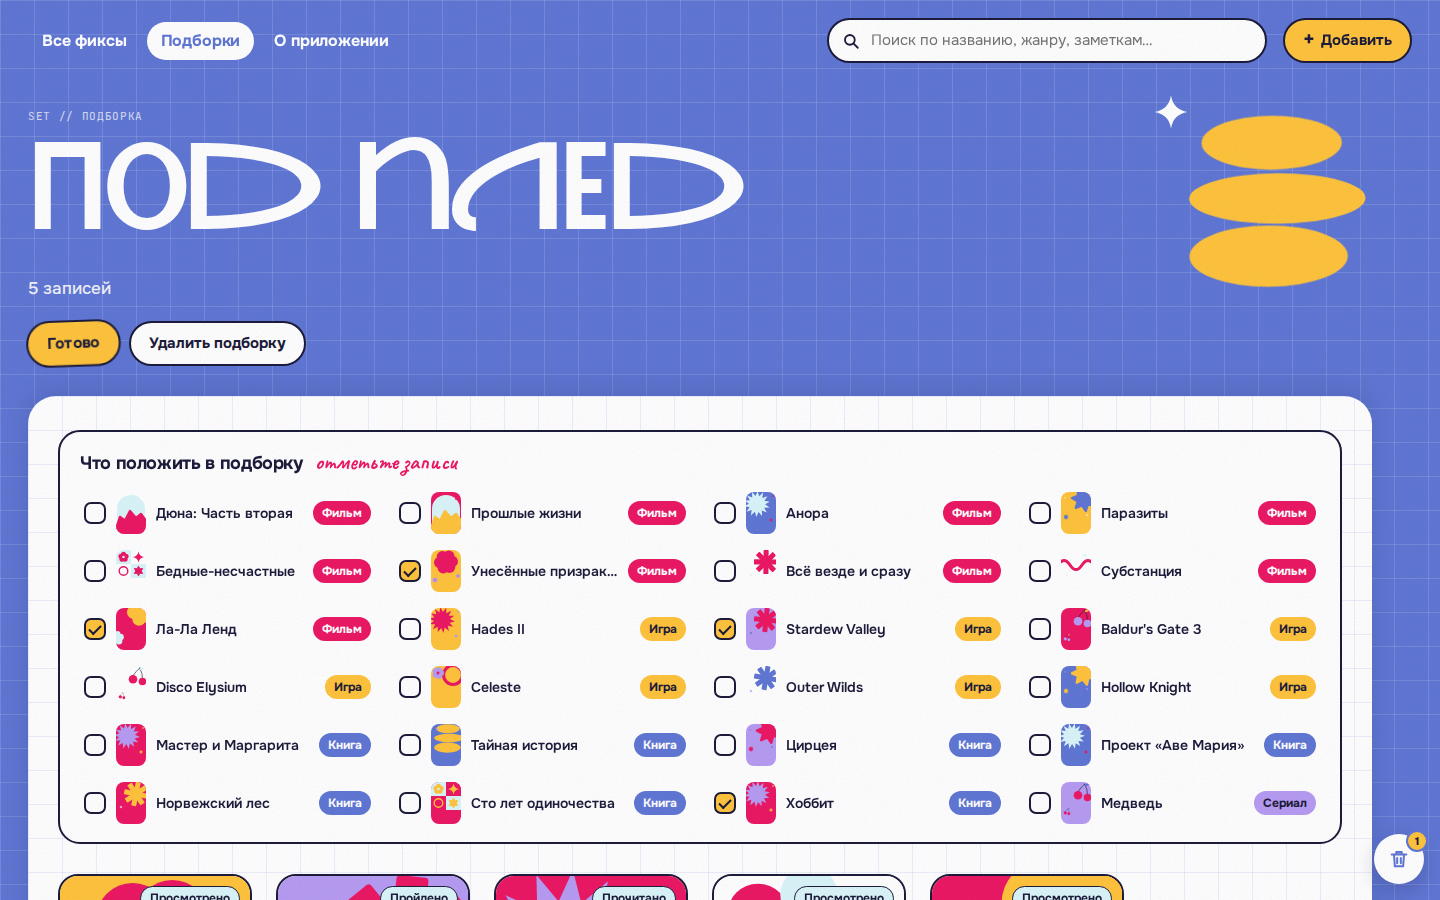
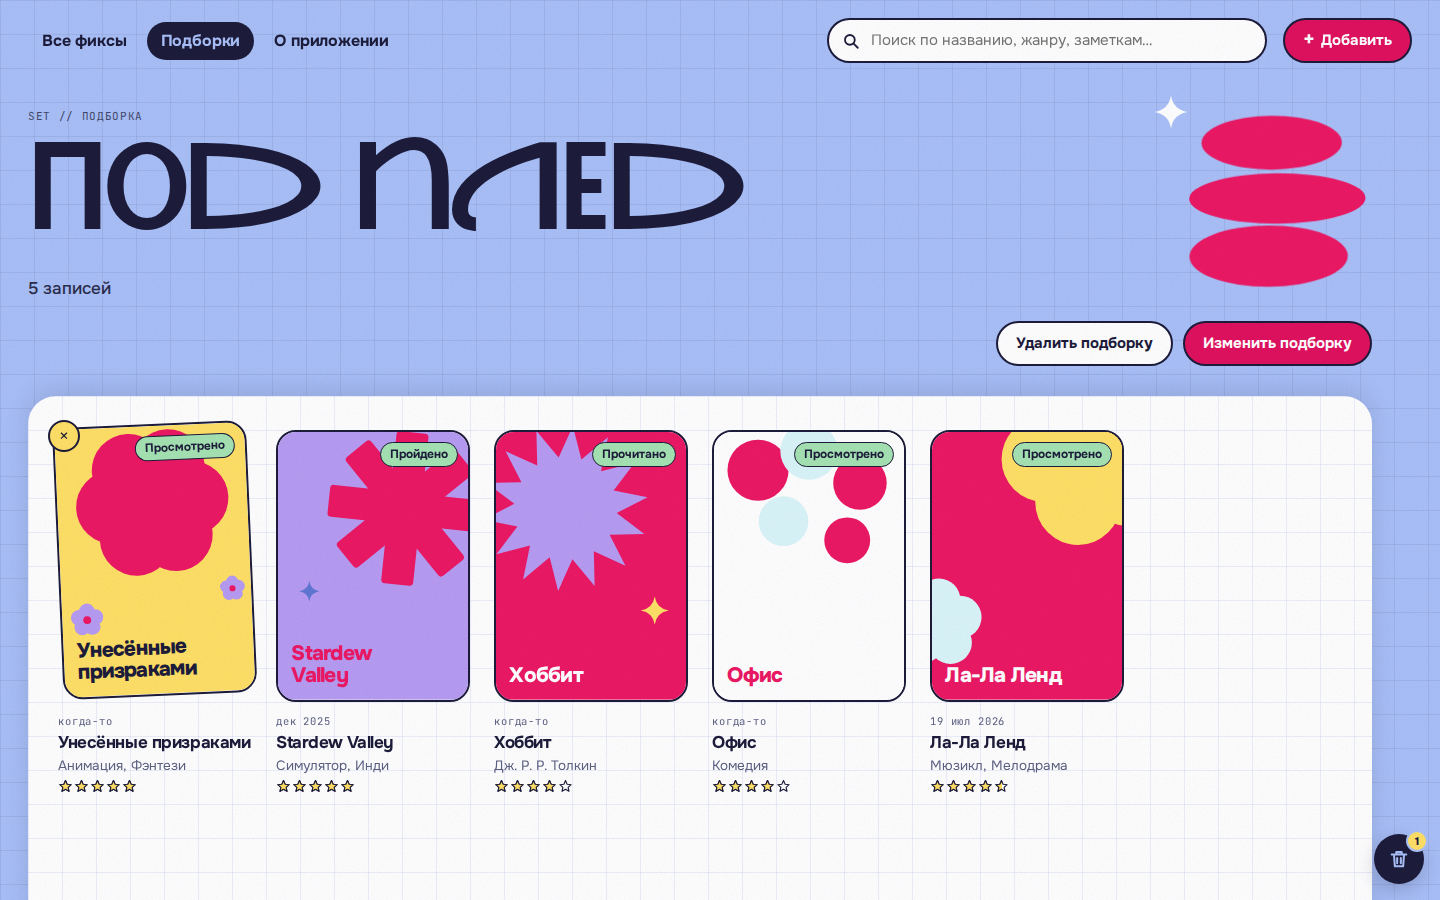
Чистка кода, свежие скриншоты, контекст: дизайны, последние изменения, план деплоя на сервер
Claude-Session: https://claude.ai/code/session_01PDBpM1BjsubR5k6YmRK1Ea

diff --git a/css/standard.css b/css/standard.css
@@ -5,17 +5,19 @@
    Скругления те же, что в дофаминовом. Цветного акцента нет: выбранное инвертируется — тёмная плашка,
    светлый текст, без обводки. Активная вкладка статуса — крупнее и светлее
    остальных. Цветовые переменные дофаминовой палитры переопределены
-   нейтральными, чтобы цвет не просачивался в мелочи. */
+   нейтральными, чтобы цвет не просачивался в мелочи. Заголовки — Lora
+   (там же, где в дофаминовом Nauryz), фигуры — тонкие контуры из covers.js. */
 html[data-design="standard"] { --ink: #23201C; --ink-2: #8A8178; --line: rgba(35, 32, 28, .22); --line-strong: rgba(35, 32, 28, .55);
   --bg: #F3EFE9; --paper: #FBF8F4; --tomato: #23201C; --display: 'Onest', system-ui, sans-serif; --shadow: transparent; }
 html[data-design="standard"], html[data-design="standard"] body { background: var(--bg) !important; }
 html[data-design="standard"] body { background-image: none !important; color: var(--ink); }
 html[data-design="standard"] body::after { display: none !important; }
-html[data-design="standard"] .folder-figure, html[data-design="standard"] .title-deco, html[data-design="standard"] .stat-fig, html[data-design="standard"] .coll-figure, html[data-design="standard"] .empty > svg, html[data-design="standard"] .hand-note, html[data-design="standard"] .doodle { display: none !important; }
+html[data-design="standard"] .doodle { display: none !important; }
 html[data-design="standard"] .sticker, html[data-design="standard"] .decode span, html[data-design="standard"] .tag, html[data-design="standard"] .pack, html[data-design="standard"] .mini-cover, html[data-design="standard"] .detail-cover, html[data-design="standard"] .stat-tile, html[data-design="standard"] .btn, html[data-design="standard"] .chip, html[data-design="standard"] .card .cover { transform: none !important; }
 html[data-design="standard"] .card:hover .cover, html[data-design="standard"] .grid > :nth-child(even) .card:hover .cover, html[data-design="standard"] .card:nth-child(even):hover .cover, html[data-design="standard"] .pack:hover, html[data-design="standard"] .stat-tile:hover, html[data-design="standard"] .btn:hover, html[data-design="standard"] .chip:hover, html[data-design="standard"] .folder:hover .mini-cover { transform: none !important; }
 html[data-design="standard"] .folder, html[data-design="standard"] .pack, html[data-design="standard"] .side-tab, html[data-design="standard"] .sheet, html[data-design="standard"] .sheet-card, html[data-design="standard"] .cover, html[data-design="standard"] .mini-cover { filter: none !important; box-shadow: none !important; }
-html[data-design="standard"] .footer-word, html[data-design="standard"] .folder-vtitle, html[data-design="standard"] .title-sheet h1, html[data-design="standard"] .coll-hero h1, html[data-design="standard"] .pack-name, html[data-design="standard"] .home-collections h2, html[data-design="standard"] .about-block h2, html[data-design="standard"] .detail-info h2, html[data-design="standard"] .add-head h2 { font-family: var(--font) !important; font-weight: 300 !important; letter-spacing: -.02em !important; text-transform: uppercase; color: var(--ink) !important; }
+html[data-design="standard"] .footer-word, html[data-design="standard"] .folder-vtitle, html[data-design="standard"] .title-sheet h1, html[data-design="standard"] .coll-hero h1, html[data-design="standard"] .pack-name, html[data-design="standard"] .home-collections h2, html[data-design="standard"] .about-block h2, html[data-design="standard"] .detail-info h2, html[data-design="standard"] .add-head h2 { text-transform: uppercase; color: var(--ink) !important; }
+html[data-design="standard"] .detail-info h2, html[data-design="standard"] .add-head h2 { font-family: var(--font) !important; font-weight: 300 !important; letter-spacing: -.02em !important; }
 html[data-design="standard"] .title-sheet h1 { font-size: clamp(56px, 5.4vw, 88px) !important; line-height: .95 !important; }
 html[data-design="standard"] .coll-hero h1 { font-size: clamp(56px, 8vw, 128px) !important; line-height: .95 !important; }
 html[data-design="standard"] .folder-vtitle { font-size: clamp(40px, 6.4vh, 76px) !important; }
@@ -30,7 +32,7 @@ html[data-design="standard"] .mainnav a.is-active, html[data-design="standard"] 
 html[data-design="standard"] .btn, html[data-design="standard"] .btn--ghost, html[data-design="standard"] .btn--danger { background: transparent !important; color: var(--ink) !important; border: 1px solid var(--ink) !important; font-weight: 500; }
 html[data-design="standard"] .btn:hover { background: var(--paper) !important; }
 html[data-design="standard"] .btn--ghost { border-color: var(--line-strong) !important; }
-html[data-design="standard"] .search input, html[data-design="standard"] .field-inline input, html[data-design="standard"] .select select, html[data-design="standard"] .field input:not([type=radio]), html[data-design="standard"] .field textarea, html[data-design="standard"] .note-compose textarea, html[data-design="standard"] .inline-form input { background: transparent !important; border: 1px solid var(--line-strong) !important; color: var(--ink); }
+html[data-design="standard"] .search input, html[data-design="standard"] .field-inline input, html[data-design="standard"] .select select, html[data-design="standard"] .field input:not([type=radio]), html[data-design="standard"] .field textarea, html[data-design="standard"] .note-compose textarea { background: transparent !important; border: 1px solid var(--line-strong) !important; color: var(--ink); }
 html[data-design="standard"] .search-results { background: var(--paper); border-width: 1px; box-shadow: none; }
 html[data-design="standard"] .folder-body, html[data-design="standard"] .stat-tile, html[data-design="standard"] .sheet, html[data-design="standard"] .pack-body, html[data-design="standard"] .sheet-card, html[data-design="standard"] .footer-sheet, html[data-design="standard"] .confirm-card, html[data-design="standard"] .picker, html[data-design="standard"] .sheet-inner { background: var(--paper) !important; color: var(--ink) !important; box-shadow: inset 0 0 0 1px var(--line) !important; border: 0 !important; }
 html[data-design="standard"] .folder--title .folder-body { box-shadow: inset 0 0 0 1px var(--line-strong) !important; }
@@ -91,7 +93,6 @@ html[data-design="standard"] .field input:focus, html[data-design="standard"] .f
 html[data-design="standard"] .detail-cover, html[data-design="standard"] .edit-side .detail-cover { border: 1px solid var(--line) !important; box-shadow: none !important; }
 html[data-design="standard"] .sheet-inner { background: transparent !important; }
 html[data-design="standard"] .sheet-card { box-shadow: inset 0 0 0 1px var(--line-strong) !important; }
-html[data-design="standard"] [class*="picker"] button, html[data-design="standard"] .pick-trigger, html[data-design="standard"] .dd-trigger, html[data-design="standard"] .cal-trigger { border-width: 1px !important; }
 
 /* ---- подборки: язычок стоит на крае папки, с вогнутыми «плечиками» ---- */
 /* Язычок заходит на 1px в папку и закрывает её верхнюю линию; плечико — уголок
@@ -172,14 +173,12 @@ html[data-design="standard"] .footer-word, html[data-design="standard"] .folder-
   font-family: 'Lora', Georgia, serif !important; font-weight: 400 !important; letter-spacing: -.01em !important; }
 
 /* рукописные подписи в окнах записи и подборки — как «выбрано N» */
-html[data-design="standard"] .hand-note { display: inline !important; color: var(--ink-2) !important; }
+html[data-design="standard"] .hand-note { color: var(--ink-2) !important; }
 
 /* контурные фигуры: тонко и светло */
-html[data-design="standard"] .folder-figure, html[data-design="standard"] .title-deco, html[data-design="standard"] .stat-fig, html[data-design="standard"] .coll-figure, html[data-design="standard"] .empty > svg { display: block !important; }
 html[data-design="standard"] .fig-outline { opacity: .38; }
 html[data-design="standard"] .stat-fig { width: 92px; right: -14px; bottom: -16px; }
 html[data-design="standard"] .coll-figure .fig-outline { opacity: .3; }
-html[data-design="standard"] .doodle { display: none !important; }
 html[data-design="standard"] .empty > svg { margin: 0 auto; }
 
 /* наведение на плитки статистики и стикер подборок */

diff --git a/css/styles.css b/css/styles.css
@@ -790,7 +790,6 @@ body[data-view="collection"] .mainnav a.is-active { background: var(--page-fi, v
 .edit-notes .note-card, .edit-notes .quote-card { display: flex; align-items: flex-start; gap: 8px; }
 .edit-notes .note-card span, .edit-notes .quote-card span { flex: 1; white-space: pre-wrap; }
 .note-delete { flex: none; margin-top: 6px; border: 0; background: rgba(28, 27, 58, .12); width: 22px; height: 22px; border-radius: 50%; cursor: pointer; line-height: 1; font: 600 15px var(--font); font-style: normal; }
-.notes-empty { margin: 0; color: var(--ink-2); font-size: 14px; }
 .note-compose { display: flex; flex-direction: column; gap: 8px; align-items: stretch; }
 .note-compose textarea { width: 100%; min-height: 96px; resize: vertical; font-family: inherit; }
 .note-compose .btn { align-self: flex-end; }
@@ -798,7 +797,6 @@ body[data-view="collection"] .mainnav a.is-active { background: var(--page-fi, v
 .edit-actions { grid-column: 1 / -1; display: flex; justify-content: space-between; align-items: center; gap: 16px; }
 .edit-actions .btn { margin-left: auto; }
 /* окно подборки */
-.sheet-card--narrow { width: min(720px, 100%); }
 .col-form { display: grid; gap: 22px; }
 /* Поле поиска лежит внутри .field, а её правило для input перебивает отступ
    под иконку — поэтому возвращаем его здесь, иначе лупа ложится на текст. */

diff --git a/js/collections-repository.js b/js/collections-repository.js
@@ -90,15 +90,6 @@ window.Diary = window.Diary || {};
     notify();
   }
 
-  function addEntry(collectionId, entryId) {
-    var c = getById(collectionId);
-    if (!c || c.entryIds.indexOf(entryId) !== -1) return;
-    c.entryIds.push(entryId);
-    c.updatedAt = Date.now();
-    persist();
-    notify();
-  }
-
   function removeEntry(collectionId, entryId) {
     var c = getById(collectionId);
     if (!c) return;
@@ -140,7 +131,6 @@ window.Diary = window.Diary || {};
     rename: rename,
     setEntries: setEntries,
     remove: remove,
-    addEntry: addEntry,
     removeEntry: removeEntry,
     importItems: importItems
   };

diff --git a/js/render.js b/js/render.js
@@ -125,7 +125,6 @@ window.Diary = window.Diary || {};
   }
 
   Diary.render = {
-    matchesStatusFilter: matchesStatusFilter,
     matchesQuery: matchesQuery,
     filterAndSort: filterAndSort,
     dateBadge: dateBadge,
@@ -135,7 +134,6 @@ window.Diary = window.Diary || {};
     coverInner: coverInner,
     thumbHtml: thumbHtml,
     tinyThumbHtml: tinyThumbHtml,
-    emptyStateHtml: emptyStateHtml,
     renderGrid: renderGrid
   };
 })(window.Diary);

diff --git a/js/pickers.js b/js/pickers.js
@@ -54,7 +54,6 @@ window.Diary = window.Diary || {};
     trigger.querySelector('.pick-caret').style.backgroundImage = CARET;
 
     var shell = {
-      trigger: trigger,
       panel: panel,
       isOpen: function () { return !panel.hidden; },
       open: function () {

diff --git a/README.md b/README.md
@@ -9,7 +9,9 @@
 - **Обычный режим** — ваши записи из `localStorage` (ключи `mediaDiary.entries.v1` и `mediaDiary.collections.v1`).
 - **Демо** — `index.html?demo`: отдельное хранилище с примерами, настоящие записи не трогаются.
 
-Шрифт заголовков — Nauryz Red Keds, файл в `fonts/`.
+Шрифт заголовков — Nauryz Red Keds, файл в `fonts/`; в стандартном дизайне — Lora (Google Fonts).
+
+Опубликованная версия — GitHub Pages, выкладывается при каждом пуше в рабочую ветку (`.github/workflows/pages.yml`).
 
 Поиск по каталогам: скопируйте `js/secrets.example.js` в `js/secrets.js` и впишите ключи. Файл в `.gitignore`. Без него приложение работает, Google Books ищет и без ключа.
 
@@ -33,7 +35,7 @@
 Два дизайна, переключатель — в футере, выбор запоминается в браузере.
 
 - **Дофаминовый** — яркий, по умолчанию. Стили — `css/styles.css`.
-- **Стандартный** — «монохром на тёплом»: один тёплый тёмный цвет на бумаге, без тёмных заливок, на шрифте, разделителях и обводках. Обложки — бумажные листы со спокойными линейными узорами. Цветного акцента нет: выбранные метки, дни и месяцы инвертируются (тёмная плашка, светлый текст), активная вкладка статуса крупнее и светлее остальных. Стили — `css/standard.css`, все под `html[data-design="standard"]`; цвета папок и статусов, которые интерфейс берёт из JS, подменяет `js/design.js`.
+- **Стандартный** — «монохром на тёплом»: один тёплый тёмный цвет на бумаге, без тёмных заливок, на шрифте, разделителях и обводках. Обложки — бумажные листы со спокойными линейными узорами. Цветного акцента нет: выбранные метки, дни и месяцы инвертируются (тёмная плашка, светлый текст), активная вкладка статуса крупнее и светлее остальных. Заголовки — Lora, фигуры — тонкие контуры. Стили — `css/standard.css`, все под `html[data-design="standard"]`; цвета папок и статусов, которые интерфейс берёт из JS, подменяет `js/design.js`.
 
 ## Навигация
 
@@ -46,6 +48,5 @@
 ## Документация
 
 - `docs/context.md` — **начните отсюда, если продолжаете работу:** принятые решения, проверенные факты об API каталогов и план ближайших функций.
-- `docs/screens/` — скриншоты дизайна на демо-данных. **Сняты до перекраски палитры 28.09.2026**
-  и до появления статуса «Заброшено» — перегенерировать при случае.
-- `docs/prototypes/pastel-minimal/` — прототип спокойного «стандартного» дизайна для будущего переключателя в футере.
+- `docs/screens/` — скриншоты дофаминового дизайна на демо-данных (сняты 28.09.2026).
+- `docs/prototypes/` — прототипы стандартного дизайна: «Пастель, минимализм», «Свечение» (оба отвергнуты) и «Монохром на тёплом», из которого вырос `css/standard.css`. Оставлены для истории.
